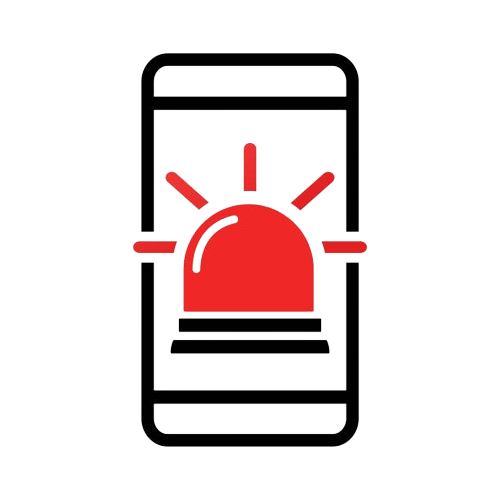
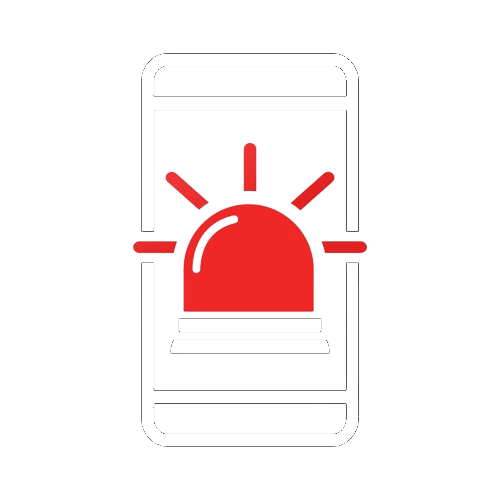
Added "Hotline" page

Changed region(s): [[0.27, 0.51, 0.72, 0.9], [0.27, 0.09, 0.72, 0.48]]

diff --git a/src/views/Hotlines.jsx b/src/views/Hotlines.jsx
@@ -1,18 +1,42 @@
 import React from 'react';
 import hotlinelogo from '../assets/hotlines/hotline.png'
+import hopeline from '../assets/hotlines/hopeline.png'
+import pnp from '../assets/hotlines/pnp.png'
+import manila_center from '../assets/hotlines/manila-center.png'
+import nat_center from '../assets/hotlines/nat-center.png'
+
+const HotlineCard = props => {
+  return (
+    <div className={`flex mx-auto px-2 py-2 border w-2/3 text-lg text-center rounded-2xl ${props.title === 'Hopeline Philippines' || props.title === 'Manila Lifeline Centre' ? 'bg-primary text-secondary-200': 'bg-secondary-200 text-primary'} transform transition-transform duration-300 ease-in-out hover:scale-105`} style={{ boxShadow: '0px 8px 20px rgba(0, 0, 0, 0.1)'}}> 
+          <img src={props.image} className={`pl-6 pt-6 h-24 mb-3 pr-10`} />
+          <p className={`mx-auto h-full pt-12 text-2xl ml-8 font-bold ${props.title === 'Hopeline Philippines' || props.title === 'Manila Lifeline Centre' ? 'bg-primary text-secondary-200': 'bg-secondary-200 text-primary'}`}>
+            {props.title}
+          </p>
+          <p className={`items-center h-full pt-12 text-2xl pr-12 font-medium text-justify ${props.title === 'Hopeline Philippines' || props.title === 'Manila Lifeline Centre' ? 'bg-primary text-secondary-200': 'bg-secondary-200 text-primary'}`}>
+          {props.number}
+          </p>
+        </div>
+  );
+};
 
 const Hotlines = () => {
   return (
     <>
       <div className='container relative flex items-center w-full h-32 pt-3 pl-16 pr-16 -mt-[3vh] bg-secondary-200'>
         <div className='relative flex items-center justify-between w-full'>
-          <img src={hotlinelogo} className='w-24 h-auto transform scale-x-[-1]' />
+          <img src={hotlinelogo} className='w-24 h-auto transform scale-x-[-1] opacity-70'/>
           <h1 className='text-primary text-4xl font-semibold whitespace-nowrap'>EMERGENCY HOTLINES</h1>
-          <img src={hotlinelogo} className='w-24 h-auto' />
+          <img src={hotlinelogo} className='w-24 h-auto opacity-70'/>
         </div>
       </div>
 
-      <div>Hotlines</div>
+      <div className='flex flex-col gap-4 pt-12 w-full h-screen mb-32'>
+        <p className='mx-auto text-secondary-200 mb-4'>In case of emergencies and other concerns, please refer to the following contacts:</p>
+        <HotlineCard image={pnp} title='Philippine National Police (PNP)' number="911"></HotlineCard>
+        <HotlineCard image={hopeline} title='Hopeline Philippines' number="2919"></HotlineCard>
+        <HotlineCard image={nat_center} title='National Center for Mental Health Crisis' number="1553"></HotlineCard>
+        <HotlineCard image={manila_center} title='Manila Lifeline Centre' number="8-969-1600"></HotlineCard>
+      </div>
     </>
   );
 };

diff --git a/src/views/EducationalResources.jsx b/src/views/EducationalResources.jsx
@@ -10,7 +10,7 @@ const PokeCard = props => {
     <div className={`flex flex-col items-center justify-center h-120 w-64 bg-primary rounded-2xl border-primary-500 border-opacity-50 ${props.title === "Students Against Depression" ? 'px-8 py-3' : ''} transform transition-transform duration-300 ease-in-out hover:scale-105`} style={{ boxShadow: '0px 8px 20px rgba(0, 0, 0, 0.4)'}}>
       <img src={props.image} className={`mx-auto pt-6 h-28 mb-3 ${props.title === "Students Against Depression" ? 'px-5' : 'px-10'}`} />
       <h1 className={`text-xl font-semibold pb-3 border-b-2 px-3 border-secondary-200 text-center text-secondary-200`}>{props.title}</h1>
-      <p className={`items-center h-full py-6 text-xs text-center ${props.title === "Students Against Depression" ? 'px-2' : 'px-10'}`}>
+      <p className={`items-center h-full py-6 text-xs text-justify ${props.title === "Students Against Depression" ? 'px-2' : 'px-10'}`}>
         {props.children}
       </p>
     </div>
@@ -23,9 +23,9 @@ const EducationalResources = () => {
     <>
     <div className='container relative flex items-center w-full h-32 pt-3 pl-16 pr-16 -mt-[3vh] bg-secondary-200'>
       <div className='relative flex items-center justify-between w-full'>
-        <img src={educlogo} className='w-24 h-auto transform scale-x-[-1]' />
+        <img src={educlogo} className='w-24 h-auto transform scale-x-[-1] opacity-70' />
         <h1 className='text-primary text-4xl font-semibold whitespace-nowrap'>EDUCATIONAL RESOURCES</h1>
-        <img src={educlogo} className='w-24 h-auto' />
+        <img src={educlogo} className='w-24 h-auto opacity-70' />
       </div>
     </div>
 

diff --git a/src/views/Communities.jsx b/src/views/Communities.jsx
@@ -6,9 +6,9 @@ const Communities = () => {
     <>
       <div className='container relative flex items-center w-full h-32 pt-3 pl-16 pr-16 -mt-[3vh] bg-secondary-200'>
         <div className='relative flex items-center justify-between w-full'>
-          <img src={communitieslogo} className='w-36 h-auto transform scale-x-[-1]' />
+          <img src={communitieslogo} className='w-36 h-auto transform scale-x-[-1] opacity-70'/>
           <h1 className='text-primary text-4xl font-semibold whitespace-nowrap'>SUPPORT COMMUNITIES</h1>
-          <img src={communitieslogo} className='w-36 h-auto' />
+          <img src={communitieslogo} className='w-36 h-auto opacity-70'/>
         </div>
       </div>
 

diff --git a/src/views/News.jsx b/src/views/News.jsx
@@ -6,9 +6,9 @@ const News = () => {
     <>
       <div className='container relative flex items-center w-full h-32 pt-3 pl-16 pr-16 -mt-[3vh] bg-secondary-200'>
         <div className='relative flex items-center justify-between w-full'>
-          <img src={newslogo} className='w-24 h-auto transform scale-x-[-1]' />
+          <img src={newslogo} className='w-24 h-auto transform scale-x-[-1] opacity-70'/>
           <h1 className='text-primary text-4xl font-semibold whitespace-nowrap'>NEWS AND UPDATES</h1>
-          <img src={newslogo} className='w-24 h-auto' />
+          <img src={newslogo} className='w-24 h-auto opacity-70'/>
         </div>
       </div>
 
